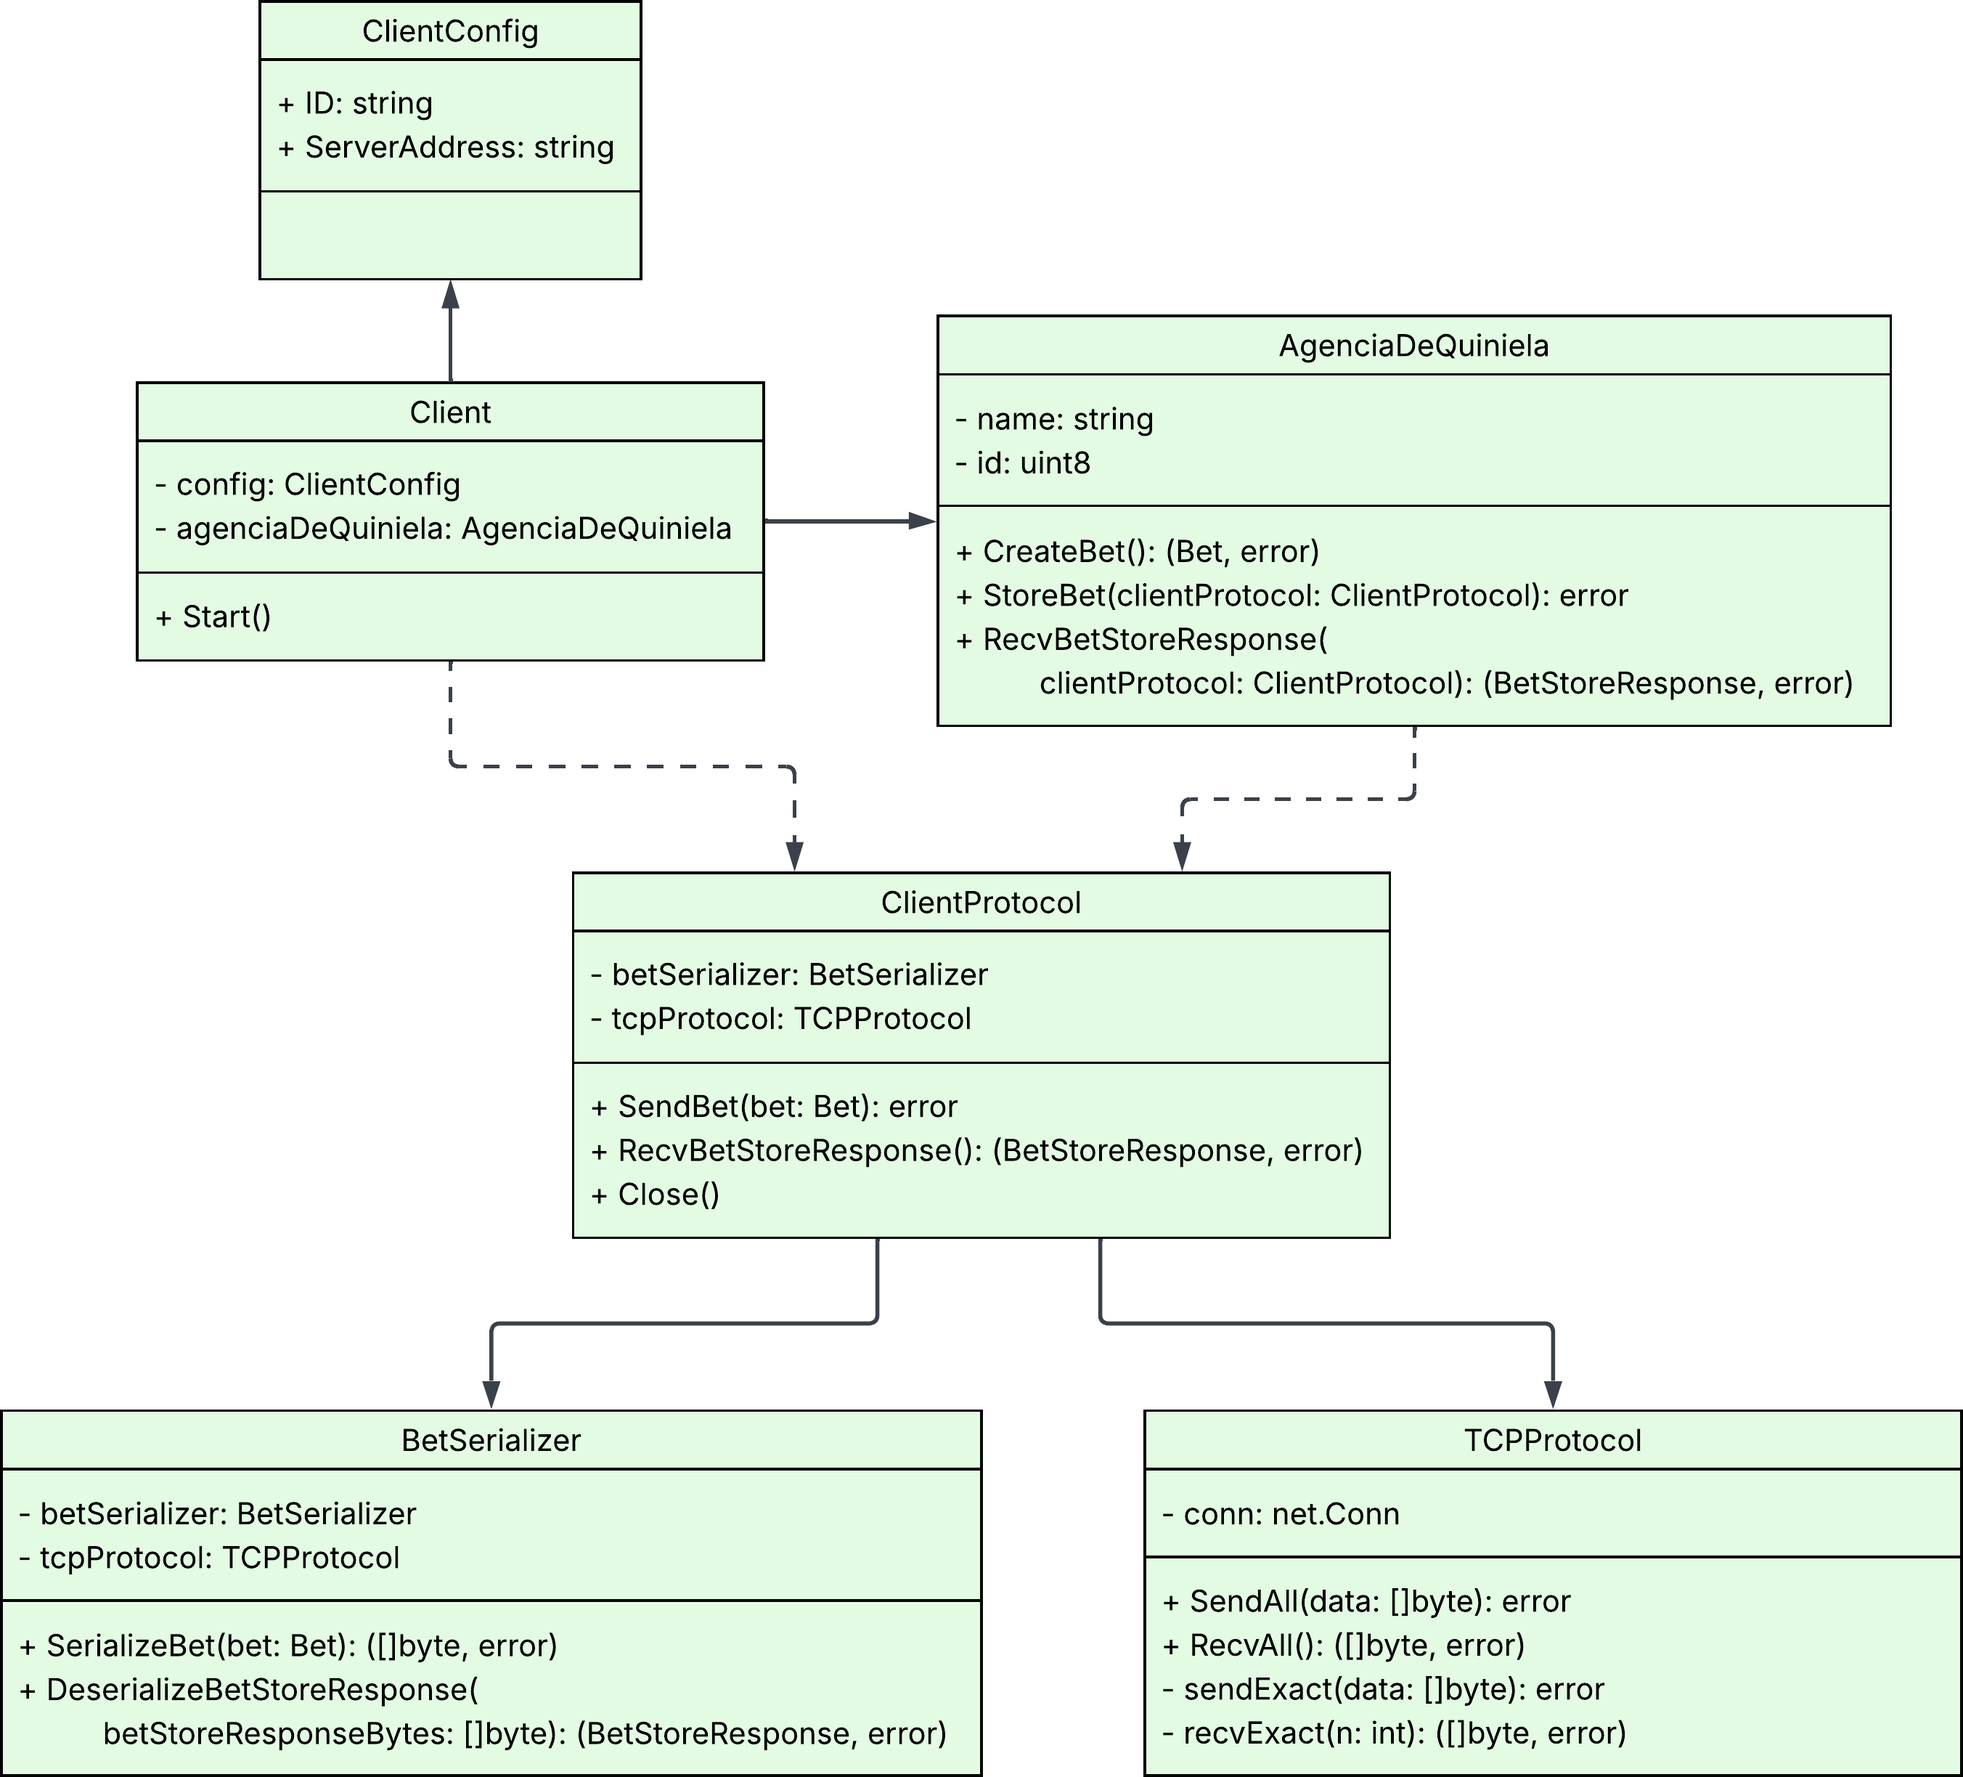
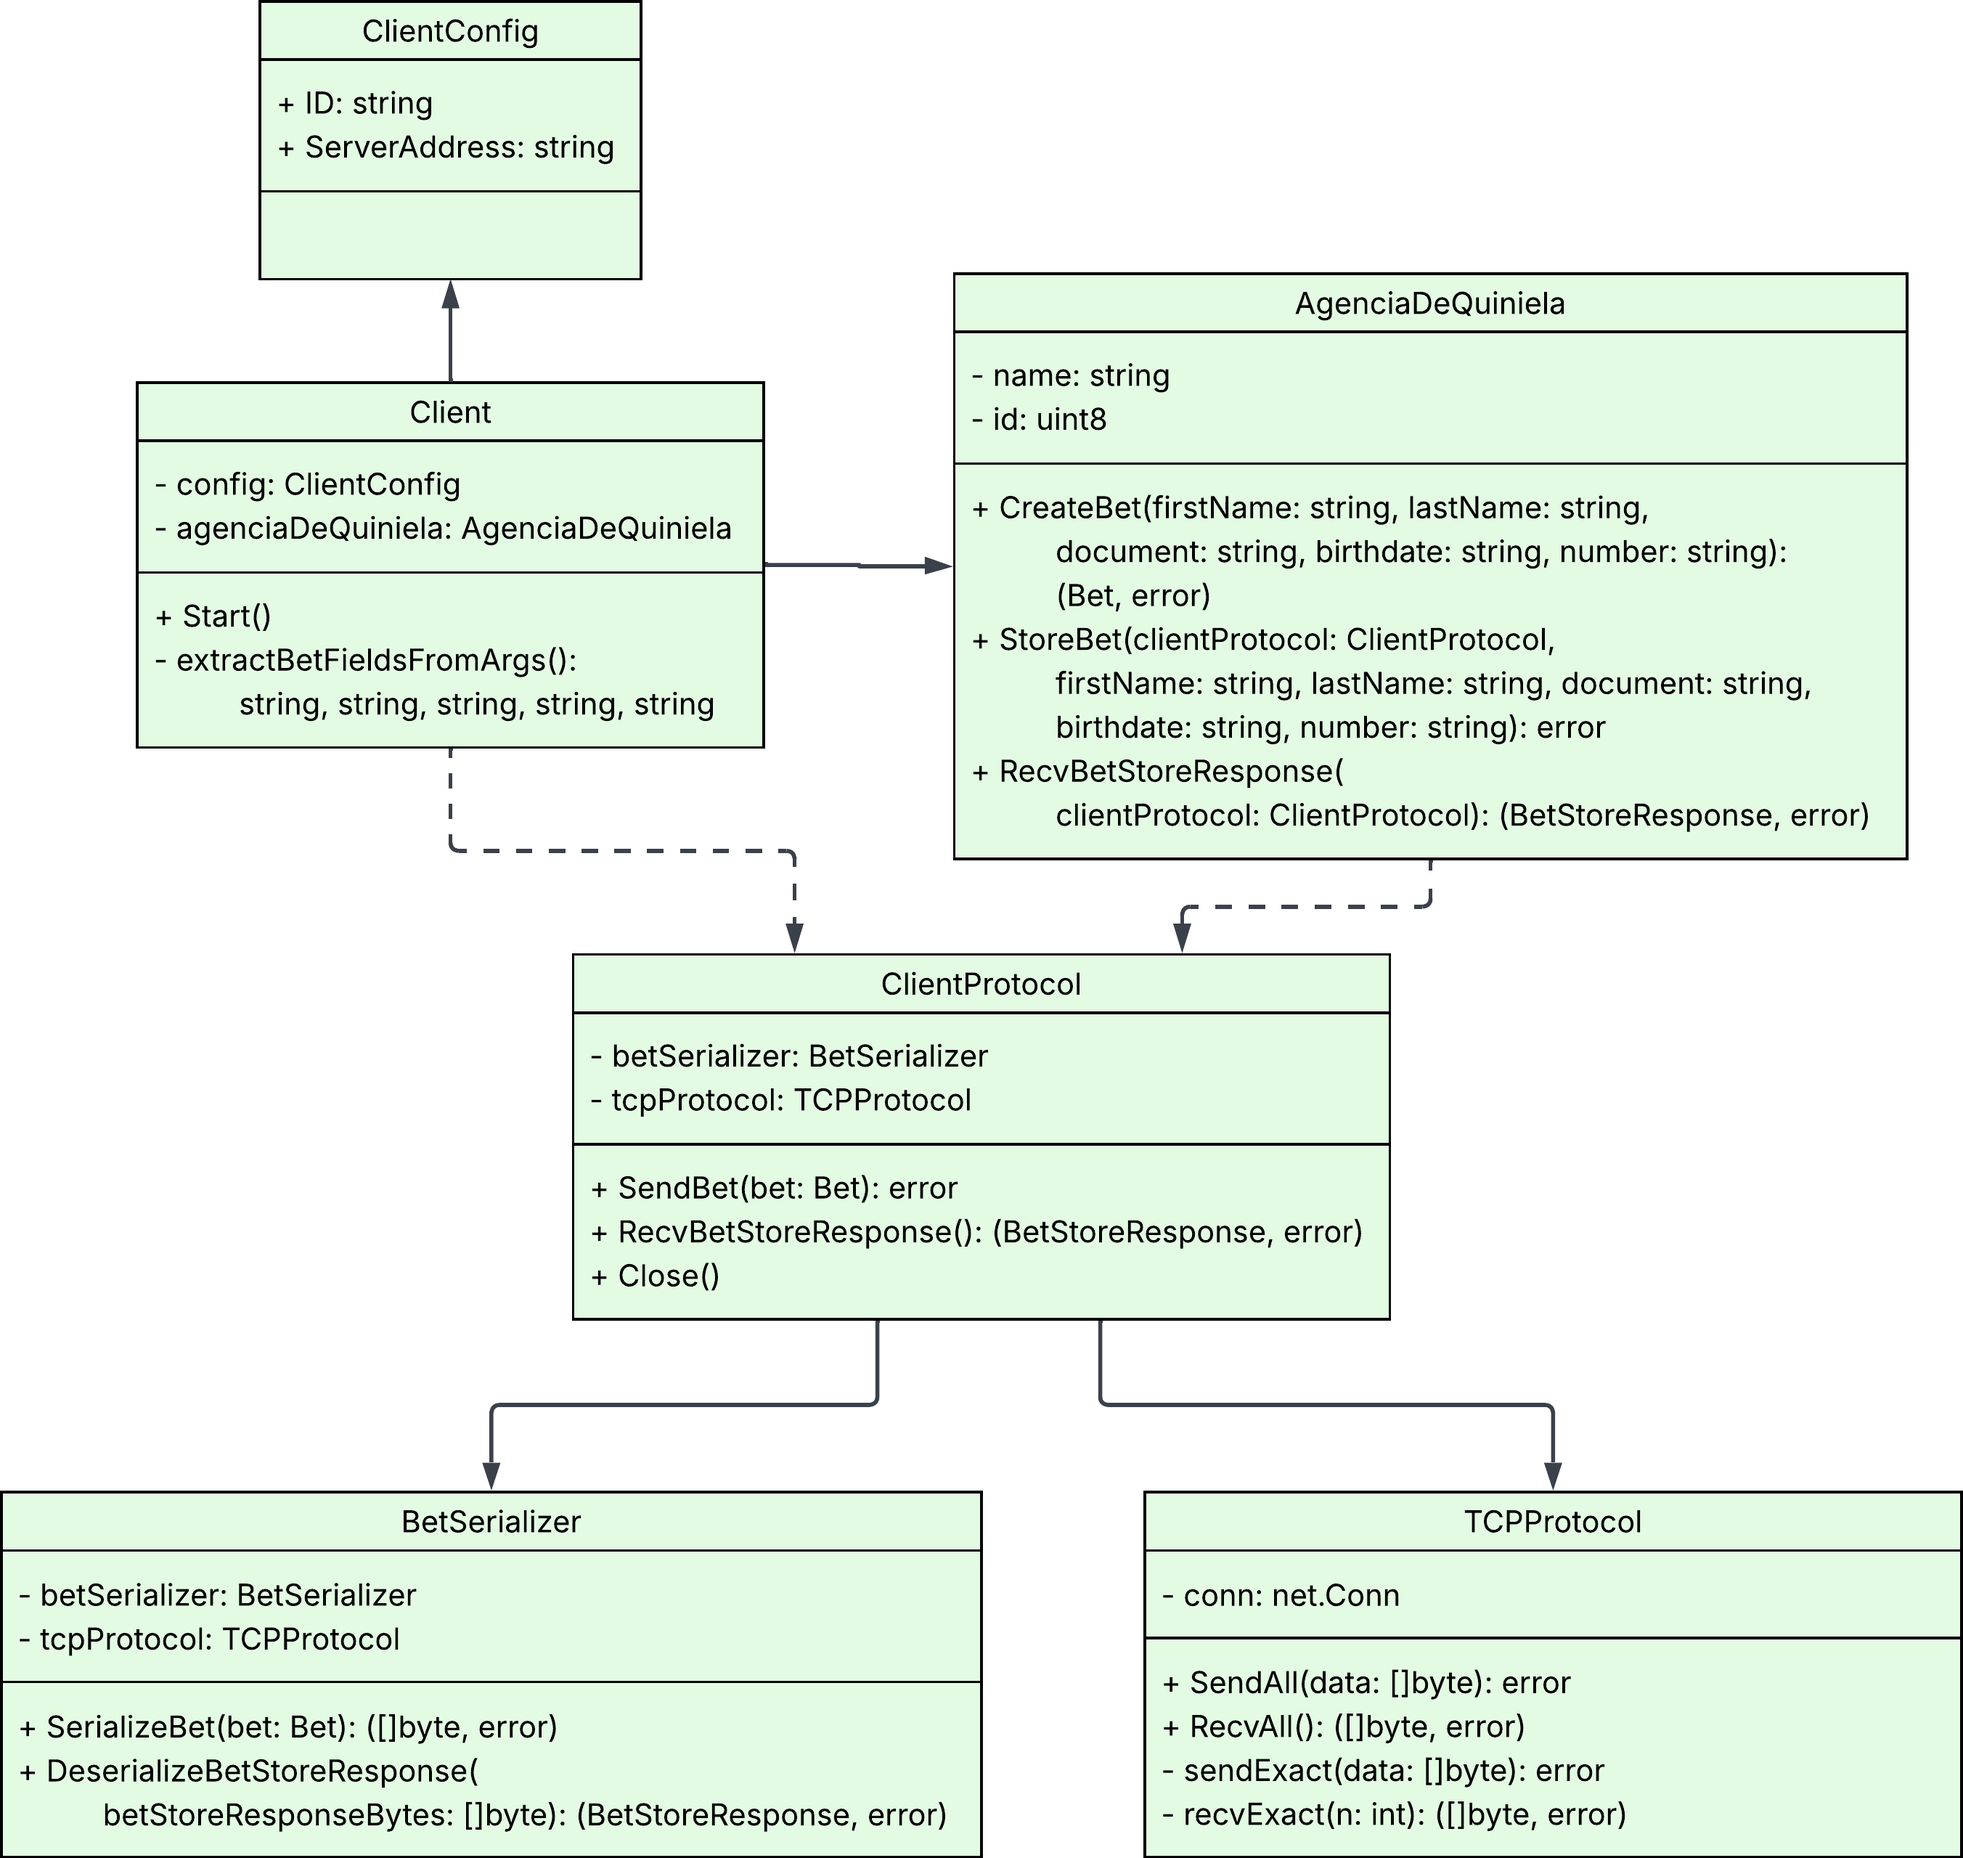
refactor(client): update CreateBet method to accept parameters and add extractBetFieldsFromArgs helper

diff --git a/client/common/agenciaDeQuiniela.go b/client/common/agenciaDeQuiniela.go
@@ -22,43 +22,40 @@ func NewAgenciaDeQuiniela(name string, id uint8) *AgenciaDeQuiniela {
 	}
 }
 
-// CreateBet reads the bet information from environment variables,
-// validates it and creates an Bet struct.
-func (a *AgenciaDeQuiniela) CreateBet() (utils.Bet, error) {
-	firstName := os.Getenv("NOMBRE")
+// CreateBet creates a bet using the given parameters.
+func (a *AgenciaDeQuiniela) CreateBet(firstName, lastName string,
+	document string, birthdate string, number string) (utils.Bet, error) {
 	if firstName == "" {
 		return utils.Bet{}, fmt.Errorf("First name cannot be empty")
 	}
 
-	lastName := os.Getenv("APELLIDO")
 	if lastName == "" {
 		return utils.Bet{}, fmt.Errorf("Last name cannot be empty")
 	}
 
-	document, err := strconv.ParseUint(os.Getenv("DOCUMENTO"), 10, 32)
+	documentToInt, err := strconv.ParseUint(document, 10, 32)
 	if err != nil {
 		return utils.Bet{}, fmt.Errorf("Error at parsing document: %v", err)
 	}
-	if document > 99999999 {
+	if documentToInt > 99999999 {
 		return utils.Bet{}, fmt.Errorf("Invalid document")
 	}
 
-	birthdateString := os.Getenv("NACIMIENTO")
-	birthdateParsed, err := time.Parse("2006-01-02", birthdateString)
+	birthdateParsed, err := time.Parse("2006-01-02", birthdate)
 	if err != nil {
 		return utils.Bet{}, fmt.Errorf("Invalid birthdate: %v", err)
 	}
-	birthdate := utils.Date{
+	birthdateDate := utils.Date{
 		Year:  uint16(birthdateParsed.Year()),
 		Month: uint8(birthdateParsed.Month()),
 		Day:   uint8(birthdateParsed.Day()),
 	}
 
-	number, err := strconv.ParseUint(os.Getenv("NUMERO"), 10, 16)
+	numberToInt, err := strconv.ParseUint(os.Getenv("NUMERO"), 10, 16)
 	if err != nil {
 		return utils.Bet{}, fmt.Errorf("Error at parsing bet number: %v", err)
 	}
-	if number > 9999 {
+	if numberToInt > 9999 {
 		return utils.Bet{}, fmt.Errorf("Invalid bet number")
 	}
 
@@ -66,16 +63,17 @@ func (a *AgenciaDeQuiniela) CreateBet() (utils.Bet, error) {
 		AgencyID:  a.id,
 		FirstName: firstName,
 		LastName:  lastName,
-		Document:  uint32(document),
-		Birthdate: birthdate,
-		Number:    uint16(number),
+		Document:  uint32(documentToInt),
+		Birthdate: birthdateDate,
+		Number:    uint16(numberToInt),
 	}, nil
 }
 
 // StoreBet creates a bet using the CreateBet method and sends it to the server
 // using the given ClientProtocol.
-func (a *AgenciaDeQuiniela) StoreBet(clientProtocol communication.ClientProtocol) error {
-	bet, err := a.CreateBet()
+func (a *AgenciaDeQuiniela) StoreBet(clientProtocol communication.ClientProtocol,
+	firstName, lastName string, document string, birthdate string, number string) error {
+	bet, err := a.CreateBet(firstName, lastName, document, birthdate, number)
 	if err != nil {
 		return err
 	}

diff --git a/client/common/client.go b/client/common/client.go
@@ -105,6 +105,17 @@ func NewClient() *Client {
 	return &Client{config, *agenciaDeQuiniela}
 }
 
+// extractBetFieldsFromArgs is a helper method that extracts the bet fields from
+// the environment variables and returns them as strings.
+func (c *Client) extractBetFieldsFromArgs() (string, string, string, string, string) {
+	firstName := os.Getenv("NOMBRE")
+	lastName := os.Getenv("APELLIDO")
+	document := os.Getenv("DOCUMENTO")
+	birthdate := os.Getenv("NACIMIENTO")
+	number := os.Getenv("NUMERO")
+	return firstName, lastName, document, birthdate, number
+}
+
 // Start is the main method of the client. It is responsible for starting the client and
 // handling the SIGTERM signal to gracefully shutdown the client. It creates a new
 // ClientProtocol to communicate with the server, sends the bet and receives the
@@ -115,6 +126,8 @@ func (c *Client) Start() {
 	clientProtocol, err := communication.NewClientProtocol(c.config.ServerAddress, c.config.ID)
 	if err != nil {
 		log.Criticalf("%s", err)
+		clientProtocol.Close()
+		return
 	}
 
 	select {
@@ -125,15 +138,21 @@ func (c *Client) Start() {
 	default:
 	}
 
-	err = c.agenciaDeQuiniela.StoreBet(clientProtocol)
+	firstName, lastName, document, birthdate, number := c.extractBetFieldsFromArgs()
+	err = c.agenciaDeQuiniela.StoreBet(clientProtocol, firstName, lastName,
+		document, birthdate, number)
 	if err != nil {
 		log.Criticalf("%s", err)
+		clientProtocol.Close()
+		return
 	}
 	log.Infof("action: registrar_apuesta | result: success")
 
 	betStoreResponse, err := c.agenciaDeQuiniela.RecvBetStoreResponse(clientProtocol)
 	if err != nil {
 		log.Criticalf("%s", err)
+		clientProtocol.Close()
+		return
 	}
 	log.Infof("action: apuesta_enviada | result: %s | dni: %v | number: %v",
 		func() string {
